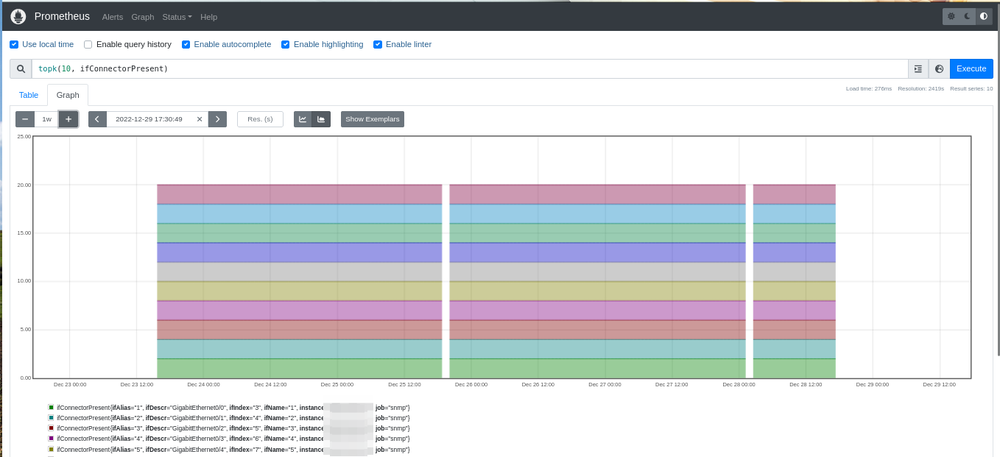
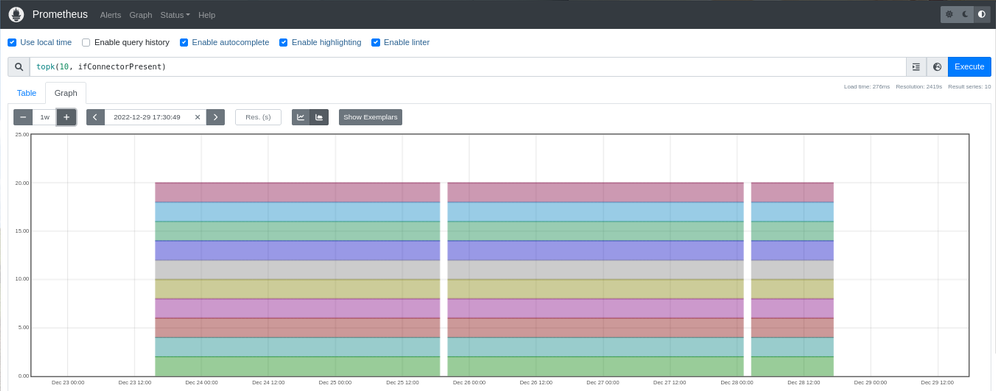
vault backup: 2024-07-25 17:27:28

diff --git a/Security/Keenetic/Keenetic - Prometheus + Grafana + Goflow.md b/Security/Keenetic/Keenetic - Prometheus + Grafana + Goflow.md
@@ -63,7 +63,7 @@ scrape_configs:
 
 ![screen_2022-12-28_16:48:51-prom-targ.png|700](/Media/Keenetic_Prometeus_Grafana/screen_2022-12-28_16!48!51-prom-targ.png)
 
-![screen_2022-12-28_16:44:56-prom-metr.png|600](/Media/Keenetic_Prometeus_Grafana/screen_2022-12-28_16!44!56-prom-metr.png)
+![screen_2022-12-28_16:44:56-prom-metr.png|500](/Media/Keenetic_Prometeus_Grafana/screen_2022-12-28_16!44!56-prom-metr.png)
 
 Прометей умеет в графики "искаропки":
 
